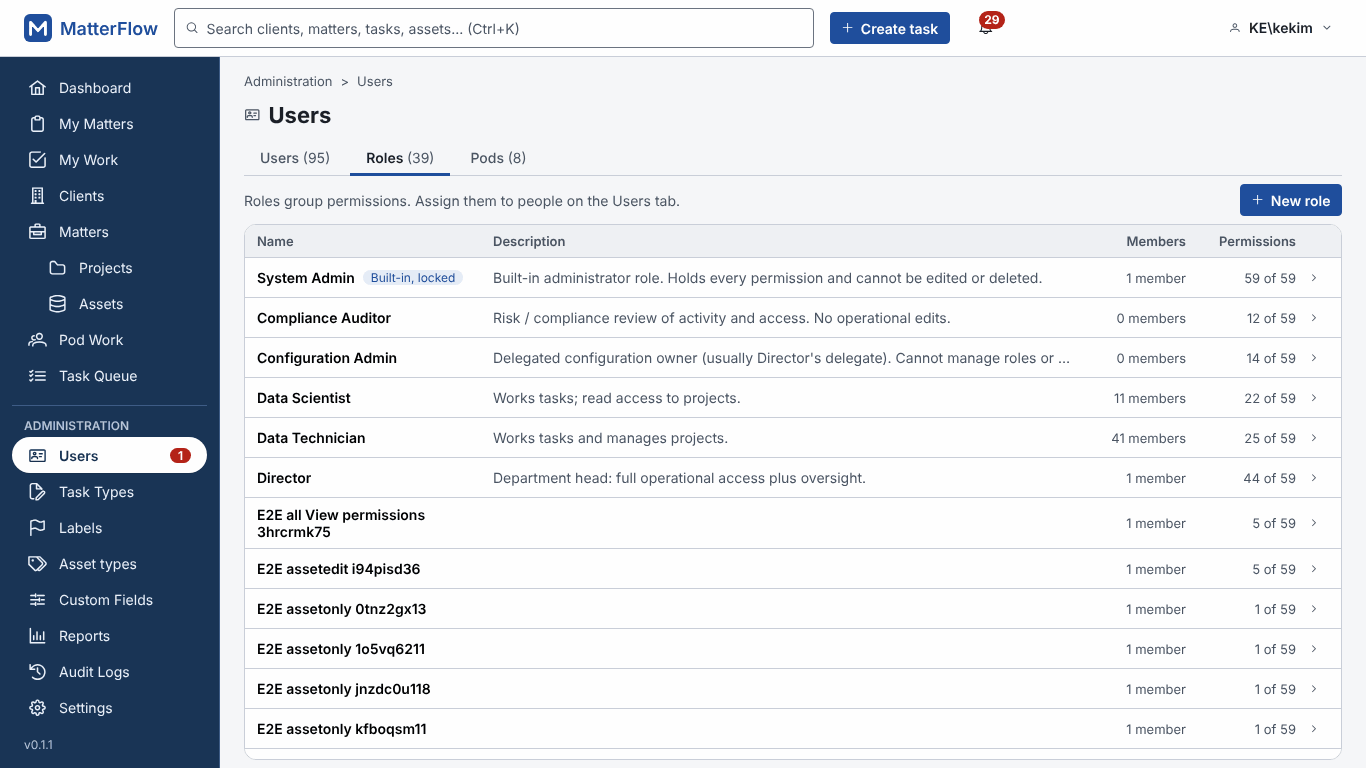
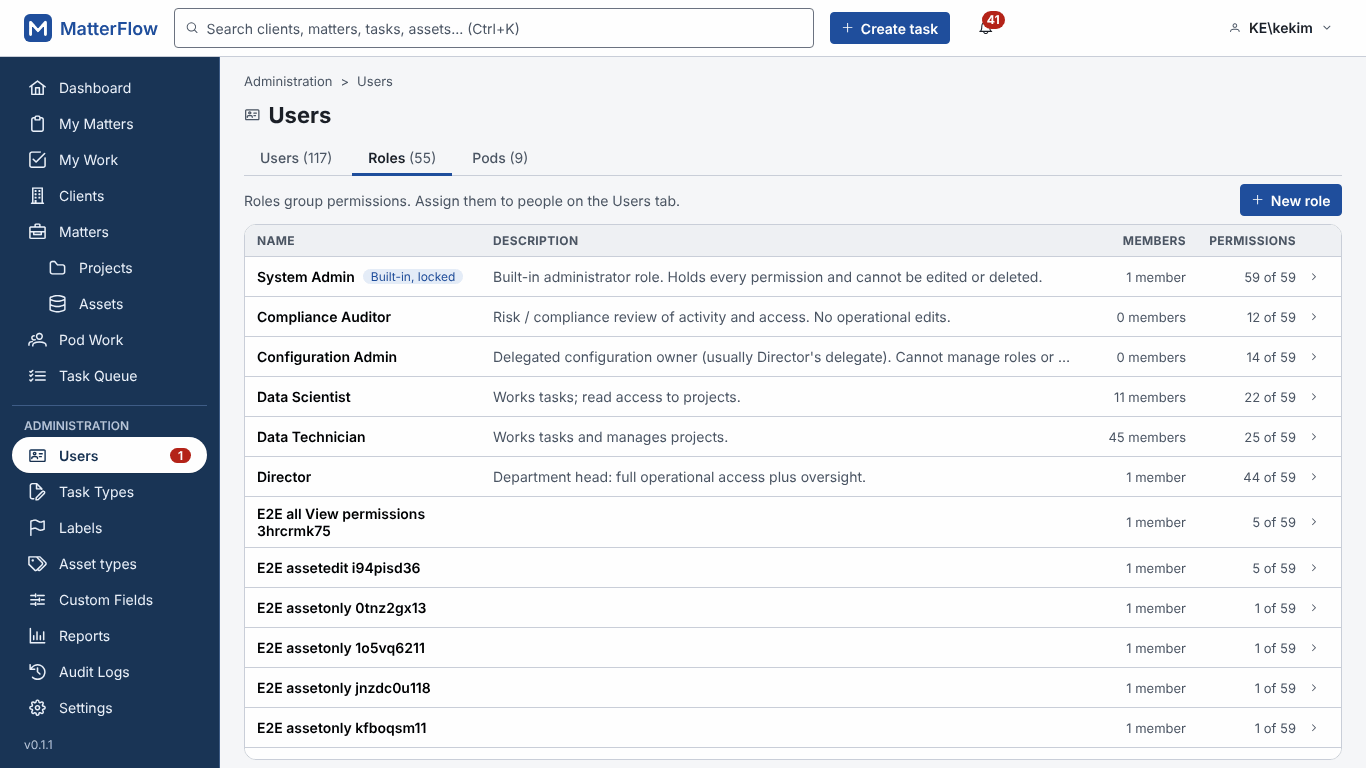
WPx Theme rollout TH-09: Users, Roles and Pods on the theme
In plain words: the Users list card, the Roles list and editor cards, the Pods list and the user drawer use the card, pill and tint tokens; the admin list frame (rounded card with the pager as its foot) comes from the shared admin grid kit, so the other admin lists get it too. The six colour fallbacks of the Pods page are gone (the ledger entry is removed) and an undefined token there now points at a real one. Screenshots before and after at four sizes. Part of #991 (epic #982).

Claude-Session: https://claude.ai/code/session_01GjQ3L6gEego4PwsSfbngaa

diff --git a/frontend/src/app/features/admin/users/user-drawer.scss b/frontend/src/app/features/admin/users/user-drawer.scss
@@ -184,9 +184,9 @@ fieldset {
   gap: var(--mf-s2);
   margin: var(--mf-s2) 0 0;
   padding: var(--mf-s2) var(--mf-s3);
-  border-radius: var(--mf-radius);
-  background: var(--mf-warning-bg);
-  color: var(--mf-warning);
+  border-radius: var(--mf-radius-md);
+  background: var(--mf-sem-risk-bg);
+  color: var(--mf-sem-risk-fg);
   font-size: var(--mf-fs-sm);
   font-weight: 600;
 }
@@ -202,10 +202,10 @@ fieldset {
 
 .ud-chip {
   padding: 1px var(--mf-s2);
-  border: 1px solid var(--mf-border-strong);
-  border-radius: var(--mf-radius);
-  background: var(--mf-surface);
-  color: var(--mf-text);
+  border: 1px solid var(--mf-sem-neutral-line);
+  border-radius: var(--mf-radius-pill);
+  background: var(--mf-sem-neutral-bg);
+  color: var(--mf-sem-neutral-fg);
   font-size: var(--mf-fs-sm);
   white-space: nowrap;
 }
@@ -238,9 +238,9 @@ fieldset {
 
 .mf-error {
   padding: var(--mf-s3);
-  border-radius: var(--mf-radius);
-  background: var(--mf-danger-bg);
-  color: var(--mf-danger);
+  border-radius: var(--mf-radius-md);
+  background: var(--mf-sem-overdue-bg);
+  color: var(--mf-sem-overdue-fg);
 }
 
 .ud-loading {
